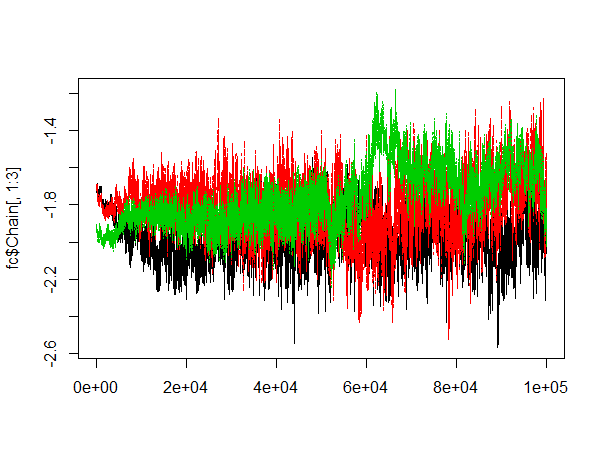
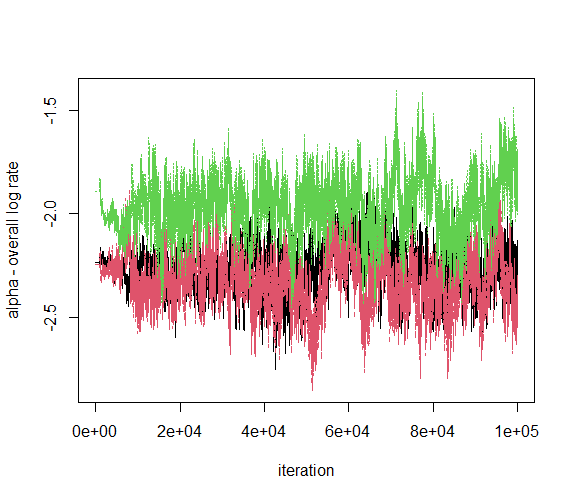
Updated readme with new figs and correct variables.

Changed region(s): [[0.0, 0.1535, 0.9461, 0.8904], [0.473, 0.9211, 0.5913, 0.9518], [0.0591, 0.2456, 0.0887, 0.307]]

diff --git a/README.md b/README.md
@@ -41,20 +41,22 @@ Obs = (1*(Occ_species>0))[,do]
 Obs <- Obs[which(rowSums(Obs)>0),] 
 ```
 
-There are 14912 species in this dataset.
+There are 15 021 species in this dataset
 ```
 head(Obs) # Just to show the structure of the input.
 
-                           Hettangian Sinemurian Pliensbachian Toarcian Aalenian Bajocian
-Aviculopecten occidentalis          0          0             0        0        0        0
-Pleuromya uniformis                 0          1             1        1        1        1
-Rouillieria michalkowii             0          0             0        0        0        0
-Pinna (Pinna) lanceolata            0          0             0        0        0        0
-Goniomya literata                   0          0             0        1        0        0
-Idonearca capax                     0          0             0        0        0        0
+                                      Hettangian Sinemurian Pliensbachian Toarcian Aalenian Bajocian Bathonian Callovian Oxfordian
+Aviculopecten occidentalis                     0          0             0        0        0        0         0         0         0
+Pleuromya uniformis                            0          1             1        1        1        1         1         1         1
+Rouillieria michalkowii                        0          0             0        0        0        0         0         0         0
+Pinna (Pinna) lanceolata                       0          0             0        0        0        0         0         0         1
+Grammatodon (Cosmetodon) keyserlingii          0          0             0        0        0        0         0         0         1
+Goniomya literata                              0          0             0        0        1        0         1         1         1
 
 
-plot(max(stages[do,]$max_ma)-cumsum(dts),colSums(Obs>0),type="o",ylab='# species',xlab='Ma',
+# Making a mid-point time reference for plotting
+stages$midp = (stages$max_ma + stages$min_ma)/2
+plot(stages[do,]$midp,colSums(Obs>0),type="o",ylab='Number of observed species',xlab='Million years ago',
      xlim=(rev(range(max(stages[do,]$max_ma)-cumsum(dts)))))
 colbottom(stages[do,]) 
 # This simple function adds colors at the bottom, from the stages data.frame
@@ -76,16 +78,14 @@ fa <- MCMC_CMR(ma,niter=1e4)
 # Written output:
 summary(fa)
 	 	 	=== Speciation rate parameters ===
-       					mean	2.5%	median	97.5%	p >/<0 	Eff SS	
-Overall rate				  0.18	  0.17	  0.18	  0.18	  0.00	407.97	
-
+              mean  2.5% median 97.5% p >/<0  Eff SS
+Overall rate 0.107 0.105  0.107 0.109       0    225
 	 	 	=== Extinction rate parameters ===
-       					mean	2.5%	median	97.5%	p >/<0 	Eff SS	
-Overall rate				  0.18	  0.17	  0.18	  0.18	  0.00	407.44	
-
+              mean  2.5% median 97.5% p >/<0  Eff SS
+Overall rate 0.106 0.104  0.106 0.108       0    252
 	 	 	=== Sampling rate parameters ===
-       					mean	2.5%	median	97.5%	p >/<0 	Eff SS	
-Overall rate				  0.15	  0.14	  0.15	  0.15	  0.00	414.58	
+              mean  2.5% median 97.5% p >/<0  Eff SS
+Overall rate 0.151 0.146  0.151 0.155       0    316
 ```
 Not surprisingly the rates of extinction and speciation are very similar. However, mean rates over many transitions are of course potentially very misleading measures of diversification. The last two columns show the probability of being 'significant', i.e. fraction of samples > or < 0, and effective sample sizes (says something about the convergence of the MCMC chain).
 
@@ -106,10 +106,9 @@ When generating the model using make_BayesCMR each rate can be defined by a form
 ` ~ time` (add a random deviation from the overall rate to each transition)
 ` ~ div`  (add a diversity-dependent term. 
 
-Diversity is roughly estimated as # obs / sampling prob. Diversity can not impact, sampling rates, which are used for diversity estimation. An intercept for each rate is included by default. Also note that all drivers, including diversity, are normalized so parameters reflect relative importance as drivers. Lastly, all rates are implemented and estimated on the log-scale
+Diversity is  estimated as # obs / sampling prob. Diversity can not impact sampling rates which are used for diversity estimation. An intercept for each rate is included by default. Also note that all drivers, including diversity, are normalized so parameters reflect relative importance as drivers. Lastly, all rates are implemented and estimated on the log-scale.
 
-More complex models take longer to estimate. Here speciation rates vary over time (they are not 'functions' of time as in + alpha*time, but this makes
-the model include a random effect per interval transition.)
+More complex models take longer to sample. Here speciation rates vary over time (they are not 'functions' of time as in + alpha*time, but this makes the model include a random effect per interval transition.)
 
 ```
 mb <- make_BayesCMR(Obs,dts,
@@ -117,10 +116,10 @@ mb <- make_BayesCMR(Obs,dts,
 # Also you can call the model, and it will print out some basic info about it.
 mb
 
- == Compadre model == 
-Model includes  14912  taxa, spanning  23  intervals. 
-The model was generated Tue Jul 09 15:17:10 2019 and has 26 parameters.
-
+  == Compadre model == 
+Model includes  15021  taxa, spanning  23  intervals. 
+The model was generated Sat Apr 03 08:09:43 2021 and has 26 parameters.
+Model is of type  III . See ?make_BayesCMR for details.
  ==  Model terms  == 
 Speciation ~ time 
 Extinction ~ 1 
@@ -131,16 +130,16 @@ fb <- MCMC_CMR(mb,niter=1e5)
 # niter gives the number of MCMC iterations. By defualt first half is burnin and it tunes a proposal distribution to generate good mixing. 
 summary(fb)
 	 	 	=== Speciation rate parameters ===
-       					mean	2.5%	median	97.5%	p >/<0 	Eff SS	
-Overall rate				  0.17	  0.14	  0.17	  0.19	  0.00	119.45	
+               mean   2.5% median 97.5% p >/<0  Eff SS
+Overall rate 0.0993 0.0843 0.0985 0.118       0   62.7
 
 	 	 	=== Extinction rate parameters ===
-       					mean	2.5%	median	97.5%	p >/<0 	Eff SS	
-Overall rate				  0.17	  0.17	  0.17	  0.18	  0.00	182.02	
+              mean 2.5% median 97.5% p >/<0  Eff SS
+Overall rate 0.102  0.1  0.102 0.104       0    258
 
 	 	 	=== Sampling rate parameters ===
-       					mean	2.5%	median	97.5%	p >/<0 	Eff SS	
-Overall rate				  0.14	  0.14	  0.14	  0.15	  0.00	316.56	
+              mean  2.5% median 97.5% p >/<0  Eff SS
+Overall rate 0.144 0.139  0.144 0.149       0    231
 
 plot(fb)
 ```
@@ -152,9 +151,9 @@ i.e. if the parameters is estimated properly. A crude rule of thumb is
 that the ESS should be > 200 for all parameters. ESS can be glanced from a summary for the main
 parameters, and evaluated for all (including the random effects for each interval) by using the function ESS(fit).
 
-Also note that the plot function outputs the sampled rates;
+Also note that the plot function outputs the sampled rates (and drawing of the plot is skipped by `drawplot=FALSE`)
 ```
-tmp <- plot(fb)
+tmp <- plot(fb,drawplot=FALSE)
 names(tmp)
 "SpecRates" "ExtRates"  "SampRates"
 
@@ -170,7 +169,7 @@ plot(fb,log=F,stages=stages[do,])
 ```
 ![figcolors](https://github.com/josteist/Compadre/blob/master/extra/fig5.png)
 
-Here you see that the plots show one of the key assumptions of a CMR model; sampling rates are within intervals (plotted inside intervals), but speciation/extinction rates are for transitions (plotted ON the interval limits). Also, it is evident that doing analysis with temporally variable rate are of course to be preferred, given the data is sufficient. 
+Here you see that the plots show one of the key assumptions of a CMR model; sampling rates are within intervals (plotted inside intervals), but speciation/extinction rates are for transitions (plotted ON the vertical lines separating intervals). Also, it is evident that doing analysis with temporally variable rate are of course to be preferred, given the data is sufficient. 
 
 ### A model including other drivers and diversity dependence
 Each rate is defined as a separate function/formula and can also have interactions.
@@ -178,35 +177,33 @@ Each rate is defined as a separate function/formula and can also have interactio
 ```
 mc <- make_BayesCMR(Obs,dts,
                     spec = ~ div + d13C + time,
-                    ext  = ~ d180_cor + time,
+                    ext  = ~ d18O + time,
                     samp = ~ time,
                     data = drivers)
 ```
-The drivers are extracted from the `data` inputted, but `div` and `time` are internal to the package and no entry in the data is needed (and also, please
-avoid using variables with these names). All drivers a normalized to a mean of 0 and sd of 1 before estimation, so their relative importance is directly summarized by the estimated parameters. You could of course back-transform if you're interested in the actual effect sizes. Diversity is also normalized. All rates are estimated on the log-scale, so their impact is proportional, i.e. a parameter estimate of 1 leads to a doubling of speciation rate when the driver is 1 sd above mean, and a halfing of the rate when it's 1 sd below the mean.
+The drivers are extracted from the `data` inputted, but `div` and `time` are internal to the package and no entry in the data is needed (and also, probably best to avoid using variables with these names). All drivers a normalized to a mean of 0 and sd of 1 before estimation, so their relative importance is directly summarized by the estimated parameters. You could of course back-transform if you're interested in the actual effect sizes. Diversity is also normalized. All rates are estimated on the log-scale, so their impact is proportional, i.e. a parameter estimate of 1 leads to a doubling of speciation rate when the driver is 1 sd above mean, and a halfing of the rate when it's 1 sd below the mean.
 
-Formulas are generic and also allows for interactions between the drivers. If you think that impact of diversity on speciation rates are more important 
-with higher d13C values, then `spec = ~div*d13C` will estimate impacts of both drivers and their interaction. 
+Formulas are generic and also allows for interactions between the drivers. If you think that impact of diversity on speciation rates are more important with higher d13C values, then `spec = ~div*d13C` will estimate impacts of both drivers and their interaction. 
 
 ```
 fc <- MCMC_CMR(mc,niter=1e6)
 summary(fc)
 	 	 	=== Speciation rate parameters ===
-       					mean	2.5%	median	97.5%	p >/<0 	Eff SS	
-Overall rate				 0.14	 0.11	 0.14	 0.18	 0.00	103.17	
-div					-0.45	-0.68	-0.45	-0.21	 0.00	38.37	
-d13C					3.8e-01	1.1e-01	3.7e-01	7.3e-01	2.1e-03	1.3e+02	
+               mean    2.5% median  97.5% p >/<0  Eff SS
+Overall rate  0.107  0.0841  0.106 0.1314  0.0000  142.6
+div          -0.229 -0.4899 -0.237 0.0655  0.0587   60.6
+d13C          0.194 -0.0590  0.198 0.4544  0.0713  118.7
 
 	 	 	=== Extinction rate parameters ===
-       					mean	2.5%	median	97.5%	p >/<0 	Eff SS	
-Overall rate				  0.17	  0.12	  0.17	  0.25	  0.00	119.81	
-d180_cor				 -0.212	 -0.553	 -0.208	  0.108	  0.096	264.343	
+                mean    2.5%  median    97.5% p >/<0  Eff SS
+Overall rate  0.0981  0.0709  0.0969  0.12755  0.0000    101
+d18O         -0.2477 -0.5121 -0.2463 -0.00814  0.0233    128
 
 	 	 	=== Sampling rate parameters ===
-       					mean	2.5%	median	97.5%	p >/<0 	Eff SS	
-Overall rate				  0.131	  0.097	  0.129	  0.174	  0.000	148.828	
+              mean  2.5% median 97.5% p >/<0  Eff SS
+Overall rate 0.145 0.106  0.143 0.189       0    112
 
-plot(fc) 
+plot(fc,stages=stages[do,]) 
 
 ```
 
@@ -220,14 +217,14 @@ plotDrivers(fc)
 ![figdriv1](https://github.com/josteist/Compadre/blob/master/extra/drivers1.png)
 ![figdriv2](https://github.com/josteist/Compadre/blob/master/extra/drivers2.png)
 
-Here it seems like diversity has a negative impact on speciation rate, `d13C` a positive one. And perhaps a positive impact of `d180_cor` on extinctions rate, but most likely not significant (or rather the credibility interval includes 0). Also note that the effective sample size for `d13C` is rather low, so here I would re-run with more iterations. 
+Here it seems like diversity has a negative impact on speciation rate and `d13C` a positive one, but the 95% credibility interval for both includes 0. There is a negative impact of `d18O` on extinctions rat, and in this case the credibility interval doees not include 0. Note that the effective sample size for some of the drivers are somewhat low, so here I would re-run with more iterations. 
 
 #### Inspecting the MCMC-chain
 
 You can also plot the chains to check for convergence. Large models might require relatively long runs, particularly with many drivers.
 ```
-# First three are the 'mean' rates:
-matplot(fc$Chain[,1:3],type="l")
+# First three are the 'mean' rates, on a log scale:
+matplot(fc$Chain[,1:3],type="l",ylab='alpha - overall log rate',xlab='iteration')
 ```
 
 ![figchains](https://github.com/josteist/Compadre/blob/master/extra/chains.png)
@@ -240,7 +237,7 @@ $specInx
           1           4           5 
 
 $extInx
-(Intercept)    d180_cor 
+(Intercept)        d18O 
           2           6 
 
 $sampInx
@@ -260,9 +257,15 @@ $sampReInx
  [1] 54 55 56 57 58 59 60 61 62 63 64 65 66 67 68 69 70 71 72 73 74
 
 ```
-So the samples for the `d18_cor` impact on extinction rate is in `fc$Chain[,6]`. `varInx` are indexes for the standard deviations of the random effects for speciation, extinction and sampling (here 7,8 and 9). `**ReInx` are the indexes for the random effects.
+So the samples for the `d18O` impact on extinction rate is in `fc$Chain[,6]`. `varInx` are indexes for the standard deviations of the random effects for speciation, extinction and sampling (here 7,8 and 9). `**ReInx` are the indexes for the random effects.
 
 
-## In development.
-This package is not entirely finished yet, but most functionality should be there. If you experience troubles, have tips or comments, feel free to contact me. 
+## About the package
+The general approach and methodological details are presented in **Compadre - estimating the drivers and dynamics of macroevolutionary change** submitted to Systematic Biology.
+
+If you discover bugs or have wishes for improvements or changes, please do not hesitate to contact me. I'm also always in the mood for interesting collaborations.
+
+
+
+
 
